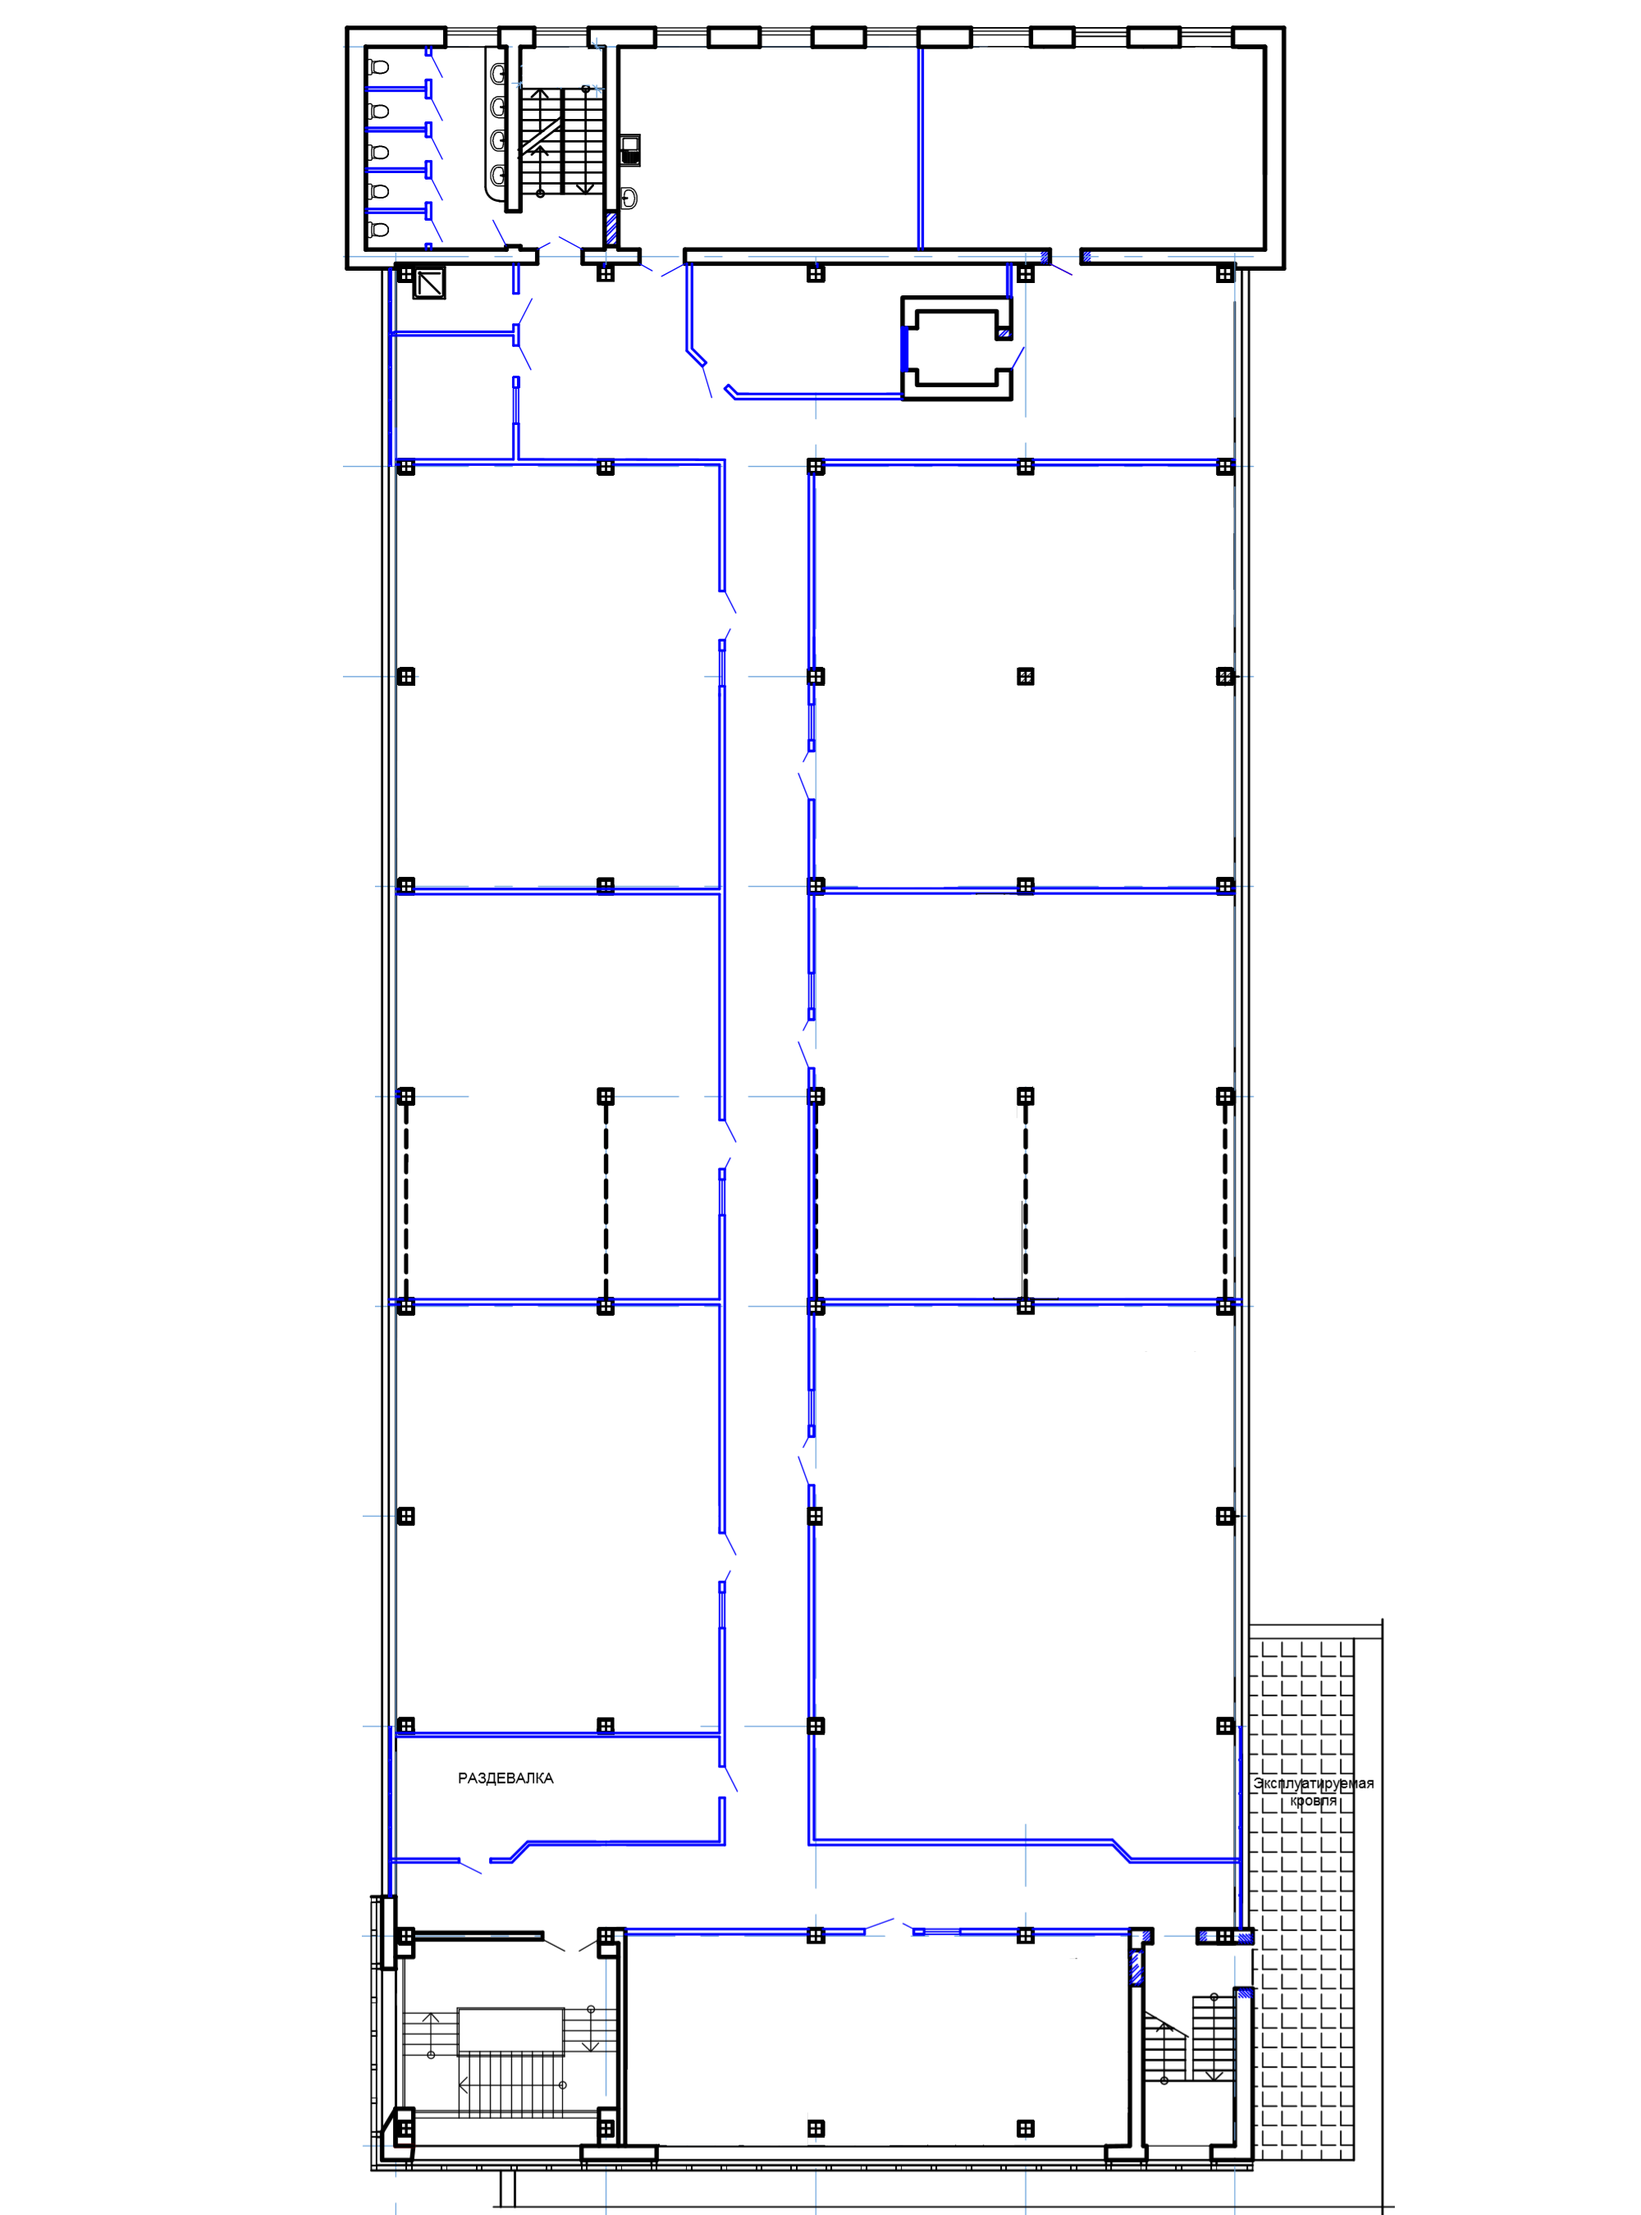
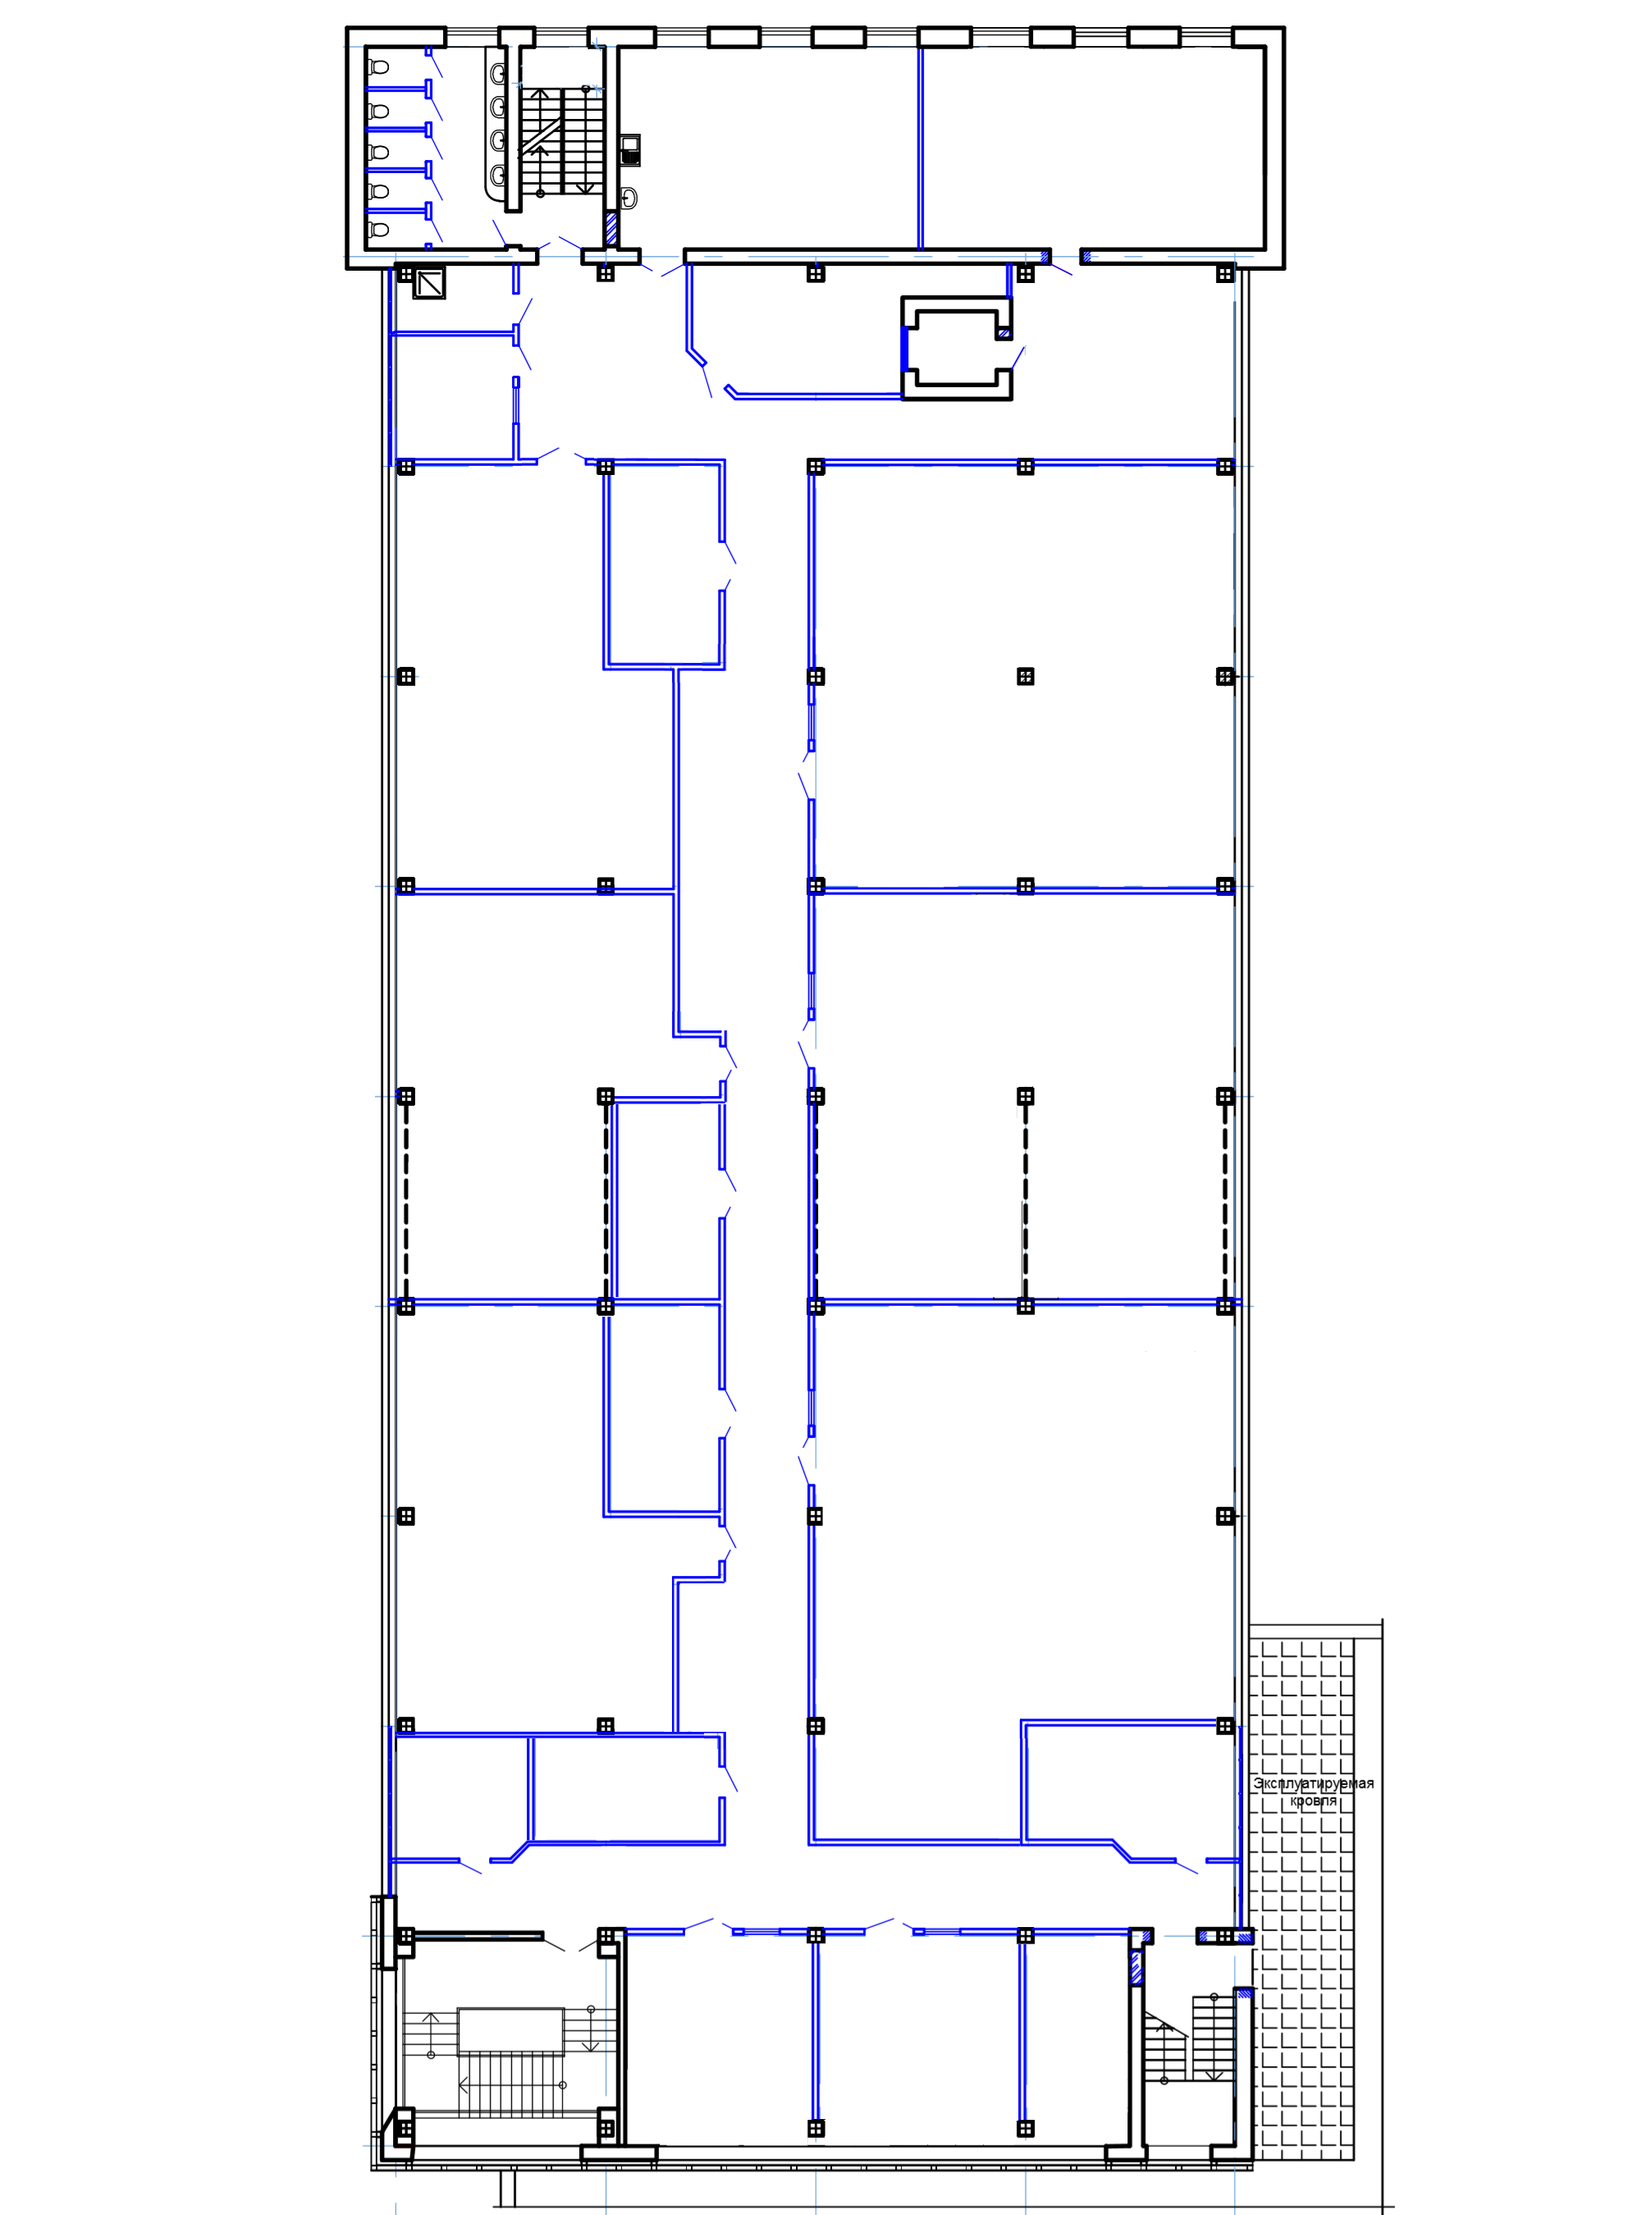
Новые планы этажей

diff --git a/index.php b/index.php
@@ -1,6 +1,6 @@
 <?php
 
-    $scriptVersion = '1.3.1';
+    $scriptVersion = '1.3.8.2';
 
     session_start();
 
